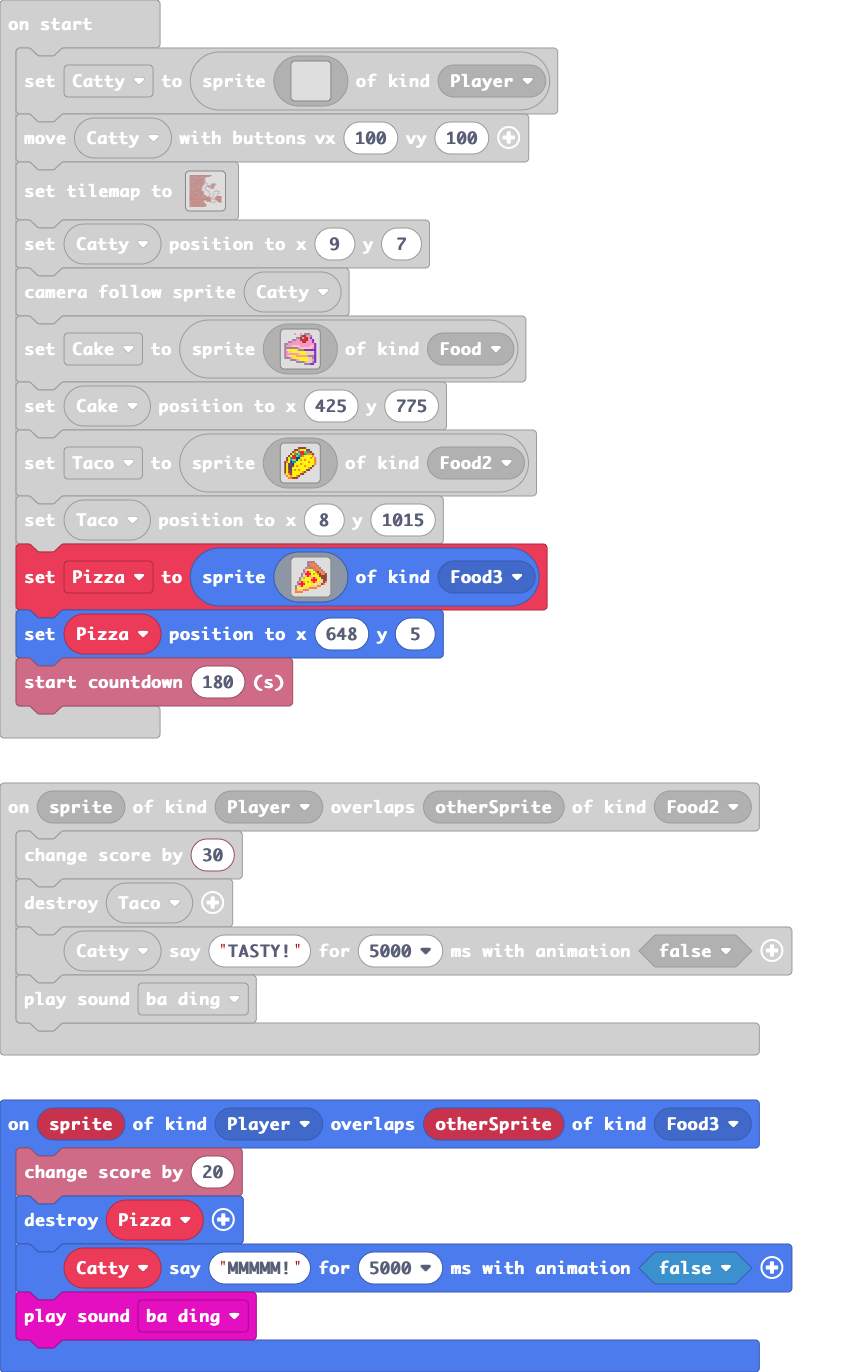
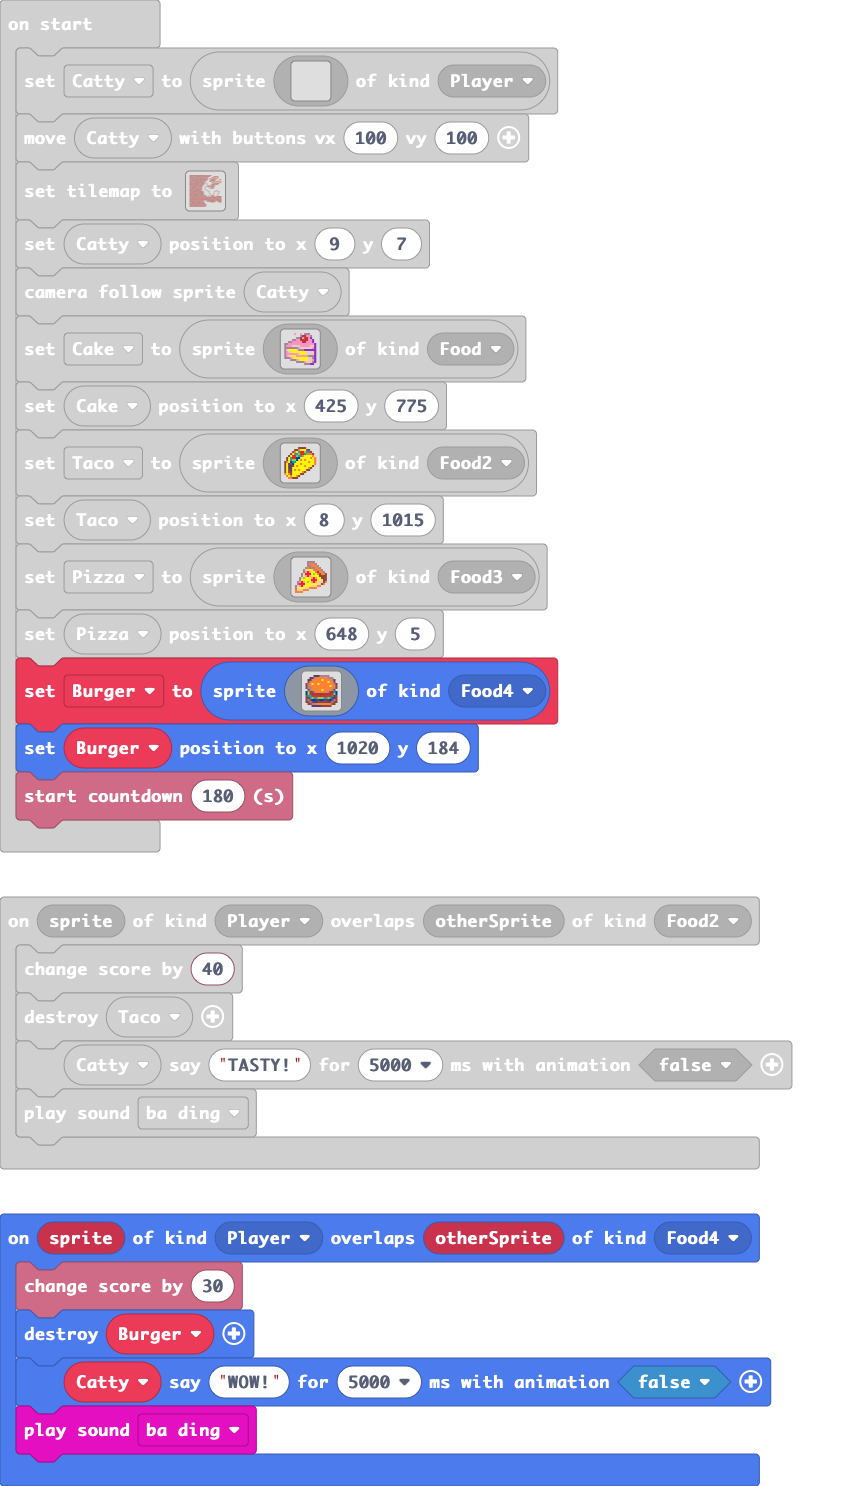
Update main.blocks, main.ts

diff --git a/main.ts b/main.ts
@@ -1,7 +1,14 @@
 namespace SpriteKind {
     export const Food2 = SpriteKind.create()
     export const Food3 = SpriteKind.create()
+    export const Food4 = SpriteKind.create()
 }
+sprites.onOverlap(SpriteKind.Player, SpriteKind.Food4, function (sprite, otherSprite) {
+    info.changeScoreBy(30)
+    Burger.destroy()
+    Catty.sayText("WOW!", 5000, false)
+    music.baDing.play()
+})
 sprites.onOverlap(SpriteKind.Player, SpriteKind.Food3, function (sprite, otherSprite) {
     info.changeScoreBy(20)
     Pizza.destroy()
@@ -38,11 +45,12 @@ scene.onOverlapTile(SpriteKind.Player, sprites.skillmap.islandTile4, function (s
     game.over(true)
 })
 sprites.onOverlap(SpriteKind.Player, SpriteKind.Food2, function (sprite, otherSprite) {
-    info.changeScoreBy(30)
+    info.changeScoreBy(40)
     Taco.destroy()
     Catty.sayText("TASTY!", 5000, false)
     music.baDing.play()
 })
+let Burger: Sprite = null
 let Pizza: Sprite = null
 let Taco: Sprite = null
 let Cake: Sprite = null
@@ -124,6 +132,25 @@ Pizza = sprites.create(img`
     4 4 4 4 . . . . . . . . . . . . 
     `, SpriteKind.Food3)
 Pizza.setPosition(648, 5)
+Burger = sprites.create(img`
+    . . . . c c c b b b b b . . . . 
+    . . c c b 4 4 4 4 4 4 b b b . . 
+    . c c 4 4 4 4 4 5 4 4 4 4 b c . 
+    . e 4 4 4 4 4 4 4 4 4 5 4 4 e . 
+    e b 4 5 4 4 5 4 4 4 4 4 4 4 b c 
+    e b 4 4 4 4 4 4 4 4 4 4 5 4 4 e 
+    e b b 4 4 4 4 4 4 4 4 4 4 4 b e 
+    . e b 4 4 4 4 4 5 4 4 4 4 b e . 
+    8 7 e e b 4 4 4 4 4 4 b e e 6 8 
+    8 7 2 e e e e e e e e e e 2 7 8 
+    e 6 6 2 2 2 2 2 2 2 2 2 2 6 c e 
+    e c 6 7 6 6 7 7 7 6 6 7 6 c c e 
+    e b e 8 8 c c 8 8 c c c 8 e b e 
+    e e b e c c e e e e e c e b e e 
+    . e e b b 4 4 4 4 4 4 4 4 e e . 
+    . . . c c c c c e e e e e . . . 
+    `, SpriteKind.Food4)
+Burger.setPosition(1020, 184)
 info.startCountdown(180)
 forever(function () {
     music.playMelody("E B C5 A B G A F ", 250)
